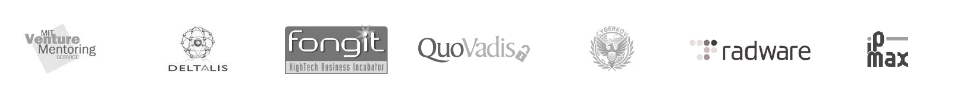
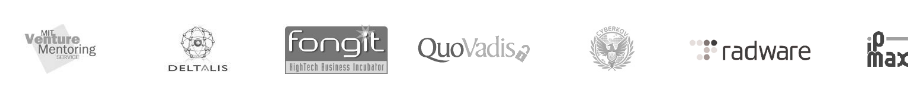
everything is ready

diff --git a/style.css b/style.css
@@ -14,6 +14,8 @@ a{
 body{
     color: #858688;
     font-family: 'Titillium Web', sans-serif;
+    width: 1684px;
+    margin: 0 auto;
 }
 header{
     width: 100%;
@@ -82,6 +84,7 @@ header{
 .authnav .sign-up{
     color: white;
     background: linear-gradient(to bottom right, #582c7e, #6278ce);
+    box-shadow: 0 6px 16px #666da0;
 }
 
 .fa-right-to-bracket{
@@ -236,9 +239,9 @@ main{
     content: '';
     display: block;
     position: absolute;
-    left: 100%;
-    top: 0px;
-    height: 400px;
+    left: 99%;
+    top: 11px;
+    height: 413px;
     width: 1px;
     background-color: #b9b9b9;
 }
@@ -364,6 +367,7 @@ ul.footer-social{
     display: flex;
     justify-content: space-between;
     width: 550px;
+    border-right: 1px #b9b9b9 solid;
 }
 .company-info{
     display:block;
@@ -432,6 +436,7 @@ ul.footer-social{
     line-height: 0px;
     display: inline;
     white-space: pre;
+    padding-bottom: 60px;
 }
 
 .center-text-contaner {
@@ -460,6 +465,12 @@ ul.footer-social{
 .button-align {
     text-align: right;
     margin-right: 26%;
+}
+
+.button-align > hr {
+    position: relative;
+    top: 30px;
+    z-index: -1;
 }
 
 #jornals-img {
@@ -571,34 +582,22 @@ input[name="r"] {
 
  .gradient-wrap {
     overflow: hidden;
-    border: 2px red solid;
     position: absolute;
-    width: 100%;
-    height: 1500px;
+    top: 1760px;
+    width: 1684px;
+    height: 1200px;
     z-index: -1;
  }
 
- /* .gradient{
-    top: 100px;
-    background: linear-gradient(110deg,  rgb(181, 181, 181), rgb(255, 255, 255));
-    opacity: 0.5;
+ .gradient{
+    position: relative;
+    top: 64px;
+    height: 100%;
+    width: 150%;
+    background: linear-gradient(30deg, #fff 30%, #eee);
     z-index: -1;
-    top: 1549px;
-    height: 1400px;
-    width: 200%;
     transform: rotate(-6.4deg);
- } */
-
- /* .gradient {
-    position: absolute;
-    top: -239px;
-    left: -106px;
-    z-index: 0;
-    width: 1500px;
-    height: 2500px;
-    background: linear-gradient(110deg, #efefef, #f7f7f7 20%, #fff 50%, #fff);
-    transform: rotate(83.6deg);
- } */
+ }
 
  .computer {
     position: relative;
@@ -607,7 +606,7 @@ input[name="r"] {
  .computer > img {
     height: 640px;
     position: absolute;
-    z-index: -1;
+    z-index: 0;
     top: -260px;
     left: 906px;
  }
@@ -639,14 +638,30 @@ input[name="r"] {
  }
 
  .black-buttons > div {
-    padding: 3px 0 0 10px;
+    padding: 3px 0 0 12px;
+    z-index: 1;
  }
 
- .fundamental  {
+.black-buttons img {
+    border-radius: 5px;
+}
+
+ .black-buttons img:hover {
+    box-shadow:0 0 30px black;
+ }
+
+ .fundamental-wrap  {
+    line-height: 37px;
+    width: 77%;
+    margin: 0 0 40px auto;
+    padding: 68px 0 0 40px;
+    border-top: 1px #b9b9b9 solid;
+    z-index: -1;
+ }
+
+ .fundamental {
+    width: 866px;
     text-align: center;
-    line-height: 38px;
-    margin: 70px auto 40px;
-    border: 3 px red solid;
  }
 
  .fundamental h3 {
@@ -654,12 +669,10 @@ input[name="r"] {
     font-weight: normal;
     color: #555;
     word-spacing: 3px;
-    border: 1 px red solid;
  }
 
  .fundamental p {
     font-size: 28px;
-    border: 1 px green solid;
  }
 
  .btn-contaner {
@@ -675,16 +688,19 @@ input[name="r"] {
  .violet-button {
     width: 236px;
     background: linear-gradient(to right, #646c92, 50%, #5f2f6a);
+    box-shadow: 0 6px 16px #666da0;
 }
 
  .blue-button {
     width: 160px;
     background: linear-gradient(to right, #39bbde, #5e7bea); 
+    box-shadow: 0 6px 16px #55a1a9;
 }
 
- .blue-button:hover {
+ .violet-button:hover, .blue-button:hover {
     border: 1px solid #fff;
-    box-shadow:0 0 30px rgb(73, 185, 250);
+    box-shadow: 0 0 30px rgb(73, 185, 250);
+    cursor: pointer;
  }
 
  .create img {
@@ -692,11 +708,21 @@ input[name="r"] {
  }
 
  .companies-contaner {
-    text-align: center;
+    width: 1334px;
+    border-right: 1px #b9b9b9 solid; 
+    border-top: 1px #b9b9b9 solid; 
+    text-align: right;
+    padding-bottom: 134px;
  }
 
- #companies-img {
-    /* position: relative; */
-    width: 974px;
-    height: 92px;
+ .companies-contaner > p {
+    font-size: 13px;
+    padding: 18px 18px 0 18px;
+ }
+
+ .companies-contaner > img {
+    position: relative;
+    right: 18px;
+    top: -3px;
+    background-color: transparent;
  }

diff --git a/index.html b/index.html
@@ -93,7 +93,10 @@
                 <h2>Physical Security</h2>
                 <div class="center-text-contaner"><p>NeutronMail's infrastructure resides in Europe's <span class="word-red">most secure</span> 
                      datacenter, underneath 1000 meters of solid rock.</p></div>
-                <div class="button-align"><button class="privacy-button">Learn more about our security features</button></div>
+                <div class="button-align">
+                    <hr>
+                    <button class="privacy-button">Learn more about our security features</button>
+                </div>
             </div>
         </section>
         <section>
@@ -145,30 +148,31 @@
                     within our secure email service is optimized to help you better
                     read, organize, and send email.</p>
                 <div class="black-buttons">
-                    <div class="app-store-button">
+                    <div>
                         <a href="https://www.apple.com/ru/app-store/">
                             <img src="images/app-store-dwnld.png" width="171px" height="53px">
                         </a>
                     </div>
-                    <div class="google-play-button">
+                    <div>
                        <a href="https://play.google.com/store/games?hl=ru&gl=US">
                             <img src="images/google-play-dwnld.png" width="171px" height="53px">
                         </a>
                     </div>
                 </div>
             </div>
-            <hr> 
-            <div class="fundamental">
-                <h3>Privacy is a fundamental human right.</h3>
-                <p>Your support helps us to protect privacy world-wide.</p>
-                <div class="btn-contaner">
-                    <button class="violet-button"><i class="fa-solid fa-cloud-arrow-up"></i> Upgrade to Paid Plan</button>
-                    <button class="blue-button"><i class="fa-solid fa-dollar-sign"></i> Donate</button>
+            <div class="fundamental-wrap">
+                <div class="fundamental">
+                    <h3>Privacy is a fundamental human right.</h3>
+                    <p>Your support helps us to protect privacy world-wide.</p>
+                    <div class="btn-contaner">
+                        <button class="violet-button"><i class="fa-solid fa-cloud-arrow-up"></i> Upgrade to Paid Plan</button>
+                        <button class="blue-button"><i class="fa-solid fa-dollar-sign"></i> Donate</button>
+                    </div>
                 </div>
             </div>
-            <hr>
             <div class="companies-contaner">
-                <img src="images/helper-label.png" alt="companies" id="companies-img">
+                <p>Those, who help us secure your privacy</p>
+                <img src="images/helper-label1.png" alt="companies" width="880px">
             </div>
         </section>
         
